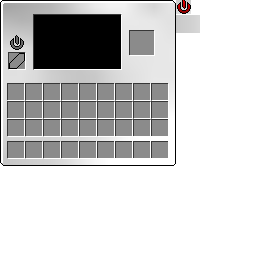
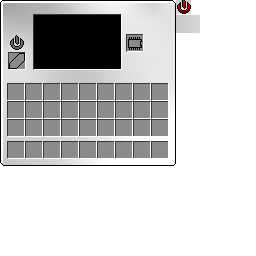
Updated autominer GUI and adjusted behaviour.

Changed region(s): [[0.4688, 0.0938, 0.625, 0.2188]]

diff --git a/src/main/java/sunsetsatellite/signalindustries/render/RenderAutoMiner.java b/src/main/java/sunsetsatellite/signalindustries/render/RenderAutoMiner.java
@@ -84,30 +84,30 @@ public class RenderAutoMiner extends TileEntityRenderer<TileEntityAutoMiner> {
 
 
             //square above
-            renderLineBetweenTwoPoints(tx, ty, tz, tx - 17, ty, tz, 1, 0.5f, 0, 1, 8, x, y + 4, z);
-            renderLineBetweenTwoPoints(tx, ty, tz, tx, ty, tz + 17, 1, 0.5f, 0, 1, 8, x, y + 4, z);
-            renderLineBetweenTwoPoints(tx, ty, tz, tx - 17, ty, tz, 1, 0.5f, 0, 1, 8, x, y + 4, z + 17);
-            renderLineBetweenTwoPoints(tx, ty, tz, tx, ty, tz + 17, 1, 0.5f, 0, 1, 8, x - 17, y + 4, z);
+            renderLineBetweenTwoPoints(tx, ty, tz, tx - 15, ty, tz, 1, 0.5f, 0, 1, 8, x, y + 4, z);
+            renderLineBetweenTwoPoints(tx, ty, tz, tx, ty, tz + 15, 1, 0.5f, 0, 1, 8, x, y + 4, z);
+            renderLineBetweenTwoPoints(tx, ty, tz, tx - 15, ty, tz, 1, 0.5f, 0, 1, 8, x, y + 4, z + 15);
+            renderLineBetweenTwoPoints(tx, ty, tz, tx, ty, tz + 15, 1, 0.5f, 0, 1, 8, x - 15, y + 4, z);
             //square
-            renderLineBetweenTwoPoints(tx, ty, tz, tx - 17, ty, tz, 1, 0.5f, 0, 1, 8, x, y, z);
-            renderLineBetweenTwoPoints(tx, ty, tz, tx, ty, tz + 17, 1, 0.5f, 0, 1, 8, x, y, z);
-            renderLineBetweenTwoPoints(tx, ty, tz, tx - 17, ty, tz, 1, 0.5f, 0, 1, 8, x, y, z + 17);
-            renderLineBetweenTwoPoints(tx, ty, tz, tx, ty, tz + 17, 1, 0.5f, 0, 1, 8, x - 17, y, z);
+            renderLineBetweenTwoPoints(tx, ty, tz, tx - 15, ty, tz, 1, 0.5f, 0, 1, 8, x, y, z);
+            renderLineBetweenTwoPoints(tx, ty, tz, tx, ty, tz + 15, 1, 0.5f, 0, 1, 8, x, y, z);
+            renderLineBetweenTwoPoints(tx, ty, tz, tx - 15, ty, tz, 1, 0.5f, 0, 1, 8, x, y, z + 15);
+            renderLineBetweenTwoPoints(tx, ty, tz, tx, ty, tz + 15, 1, 0.5f, 0, 1, 8, x - 15, y, z);
             //down
             renderLineBetweenTwoPoints(tx, ty, tz, tx, ty - 4, tz, 1, 0.5f, 0, 1, 8, x, y + 4, z);
-            renderLineBetweenTwoPoints(tx, ty, tz, tx, ty - 4, tz, 1, 0.5f, 0, 1, 8, x - 17, y + 4, z);
-            renderLineBetweenTwoPoints(tx, ty, tz, tx, ty - 4, tz, 1, 0.5f, 0, 1, 8, x, y + 4, z + 17);
-            renderLineBetweenTwoPoints(tx, ty, tz, tx, ty - 4, tz, 1, 0.5f, 0, 1, 8, x - 17, y + 4, z + 17);
+            renderLineBetweenTwoPoints(tx, ty, tz, tx, ty - 4, tz, 1, 0.5f, 0, 1, 8, x - 15, y + 4, z);
+            renderLineBetweenTwoPoints(tx, ty, tz, tx, ty - 4, tz, 1, 0.5f, 0, 1, 8, x, y + 4, z + 15);
+            renderLineBetweenTwoPoints(tx, ty, tz, tx, ty - 4, tz, 1, 0.5f, 0, 1, 8, x - 15, y + 4, z + 15);
             //down 2
             renderLineBetweenTwoPoints(tx, ty, tz, tx, 0, tz, 1, 1, 1, 1, 2, x, y, z);
-            renderLineBetweenTwoPoints(tx, ty, tz, tx, 0, tz, 1, 1, 1, 1, 2, x - 17, y, z);
-            renderLineBetweenTwoPoints(tx, ty, tz, tx, 0, tz, 1, 1, 1, 1, 2, x, y, z + 17);
-            renderLineBetweenTwoPoints(tx, ty, tz, tx, 0, tz, 1, 1, 1, 1, 2, x - 17, y, z + 17);
+            renderLineBetweenTwoPoints(tx, ty, tz, tx, 0, tz, 1, 1, 1, 1, 2, x - 15, y, z);
+            renderLineBetweenTwoPoints(tx, ty, tz, tx, 0, tz, 1, 1, 1, 1, 2, x, y, z + 15);
+            renderLineBetweenTwoPoints(tx, ty, tz, tx, 0, tz, 1, 1, 1, 1, 2, x - 15, y, z + 15);
             //square down
-            renderLineBetweenTwoPoints(tx, ty, tz, tx - 17, ty, tz, 1, 1, 1, 1, 2, x, y - ty, z);
-            renderLineBetweenTwoPoints(tx, ty, tz, tx, ty, tz + 17, 1, 1, 1, 1, 2, x, y - ty, z);
-            renderLineBetweenTwoPoints(tx, ty, tz, tx - 17, ty, tz, 1, 1, 1, 1, 2, x, y - ty, z + 17);
-            renderLineBetweenTwoPoints(tx, ty, tz, tx, ty, tz + 17, 1, 1, 1, 1, 2, x - 17, y - ty, z);
+            renderLineBetweenTwoPoints(tx, ty, tz, tx - 15, ty, tz, 1, 1, 1, 1, 2, x, y - ty, z);
+            renderLineBetweenTwoPoints(tx, ty, tz, tx, ty, tz + 15, 1, 1, 1, 1, 2, x, y - ty, z);
+            renderLineBetweenTwoPoints(tx, ty, tz, tx - 15, ty, tz, 1, 1, 1, 1, 2, x, y - ty, z + 15);
+            renderLineBetweenTwoPoints(tx, ty, tz, tx, ty, tz + 15, 1, 1, 1, 1, 2, x - 15, y - ty, z);
 
             //current lines
             renderLineBetweenTwoPoints(tx, ty, tz, cx, ty, tz, 1, 0, 0, 1, 8, x, y + 4, z + (cz - tz));

diff --git a/src/main/java/sunsetsatellite/signalindustries/inventories/machines/TileEntityAutoMiner.java b/src/main/java/sunsetsatellite/signalindustries/inventories/machines/TileEntityAutoMiner.java
@@ -49,23 +49,8 @@ public class TileEntityAutoMiner extends TileEntityTieredMachineBase implements 
                 fluidContents[0] = null;
             }
 
-            current.x--;
             current.y = findTopSolidNonLiquidBlockLimited(worldObj,current.x, current.z,y+4);
-            if(current.y < 1){
-                current.y = y+4;
-                //workTimer.pause();
-            }
-            if(current.x < x-16){
-                current.x = x-1;
-                current.z++;
-                current.y = findTopSolidNonLiquidBlockLimited(worldObj,current.x, current.z,y+4);
-                if(current.z > z+16){
-                    current.z = z+1;
-                    current.y = findTopSolidNonLiquidBlockLimited(worldObj,current.x, current.z,y+4);
-                }
-            }
 
-            //SignalIndustries.LOGGER.info(String.valueOf(current.y));
             if(worldObj.getBlockId(current.x,current.y-1,current.z) != Block.bedrock.id){
                 Block block = Block.getBlock(worldObj.getBlockId(current.x,current.y-1,current.z));
                 boolean silk = getStackInSlot(0) != null && getStackInSlot(0).getItem() == SIItems.precisionControlChip;
@@ -132,6 +117,22 @@ public class TileEntityAutoMiner extends TileEntityTieredMachineBase implements 
                     }
                 }
             }
+
+            current.x--;
+            if(current.y < 1){
+                current.y = y+4;
+                //workTimer.pause();
+            }
+            if(current.x < x-14){
+                current.x = x-1;
+                current.z++;
+                current.y = findTopSolidNonLiquidBlockLimited(worldObj,current.x, current.z,y+4);
+                if(current.z > z+14){
+                    current.z = z+1;
+                    current.y = findTopSolidNonLiquidBlockLimited(worldObj,current.x, current.z,y+4);
+                }
+            }
+
         }
     }
 
@@ -160,12 +161,13 @@ public class TileEntityAutoMiner extends TileEntityTieredMachineBase implements 
             if(current.equals(new Vec3i())){
                 current = new Vec3i(x-1,y+4,z+1);
             }
-            workTimer.max = (int) (progressMaxTicks / speedMultiplier);
             boolean silk = getStackInSlot(0) != null && getStackInSlot(0).getItem() == SIItems.precisionControlChip;
             if(silk){
-                cost = 4;
+                cost = 2;
+                workTimer.max = ((int) (progressMaxTicks / speedMultiplier) * 2);
             } else {
                 cost = 1;
+                workTimer.max = (int) (progressMaxTicks / speedMultiplier);
             }
         }
     }

diff --git a/src/main/java/sunsetsatellite/signalindustries/gui/GuiAutoMiner.java b/src/main/java/sunsetsatellite/signalindustries/gui/GuiAutoMiner.java
@@ -105,7 +105,7 @@ public class GuiAutoMiner extends GuiFluid {
         fontRenderer.drawStringWithShadow("X: "+(tile.current.x-tile.x),38,20,0xFFFF0000);
         fontRenderer.drawStringWithShadow("Y: "+(tile.current.y-tile.y),38,32,0xFF4080FF);
         fontRenderer.drawStringWithShadow("Z: "+(tile.current.z-tile.z),38,44,0xFF00FF00);
-        fontRenderer.drawStringWithShadow("S: "+((int)(tile.progressMaxTicks/tile.speedMultiplier))+"t",80,44,0xFFFF8000);
+        fontRenderer.drawStringWithShadow("S: "+tile.workTimer.max +"t",80,44,0xFFFF8000);
         fontRenderer.drawStringWithShadow("C: "+(tile.cost),80,32,0xFF800000);
         //fontRenderer.drawString(String.format("X: %d Y: %d Z: %d",tile.current.x,tile.current.y,tile.current.z),38,20,0xFFFFFFFF);
     }

diff --git a/src/main/java/sunsetsatellite/signalindustries/containers/ContainerAutoMiner.java b/src/main/java/sunsetsatellite/signalindustries/containers/ContainerAutoMiner.java
@@ -17,7 +17,7 @@ public class ContainerAutoMiner extends ContainerFluid {
 
         SlotFluid slot = new SlotFluid(tileEntity, 0, 9,53); //116 35
         addFluidSlot(slot);
-        this.addSlot(new Slot(tileEntity,0,130 + 4,31 + 4));
+        this.addSlot(new Slot(tileEntity,0,130,31 + 4));
 
         for(int j = 0; j < 3; j++)
         {
